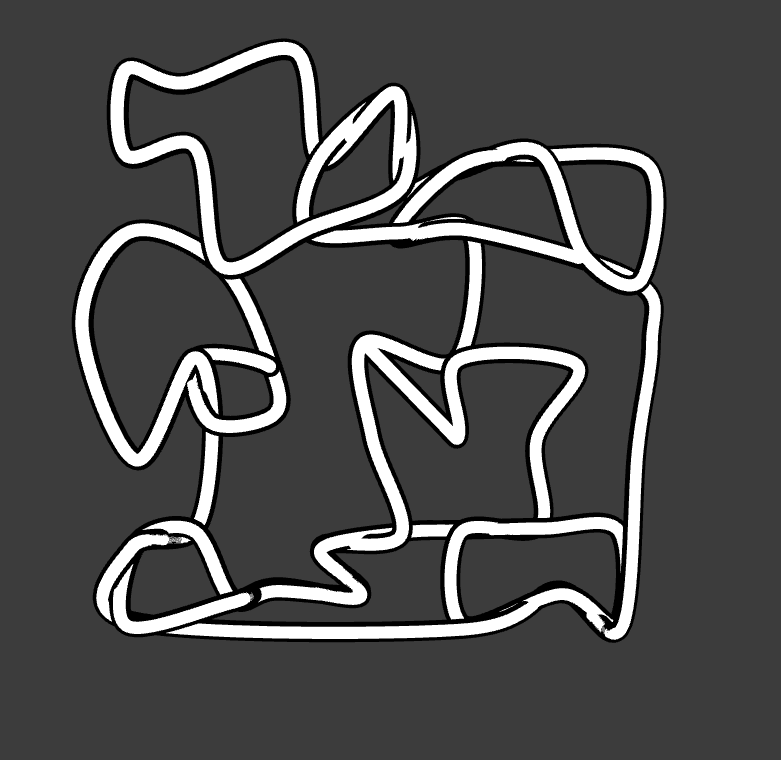
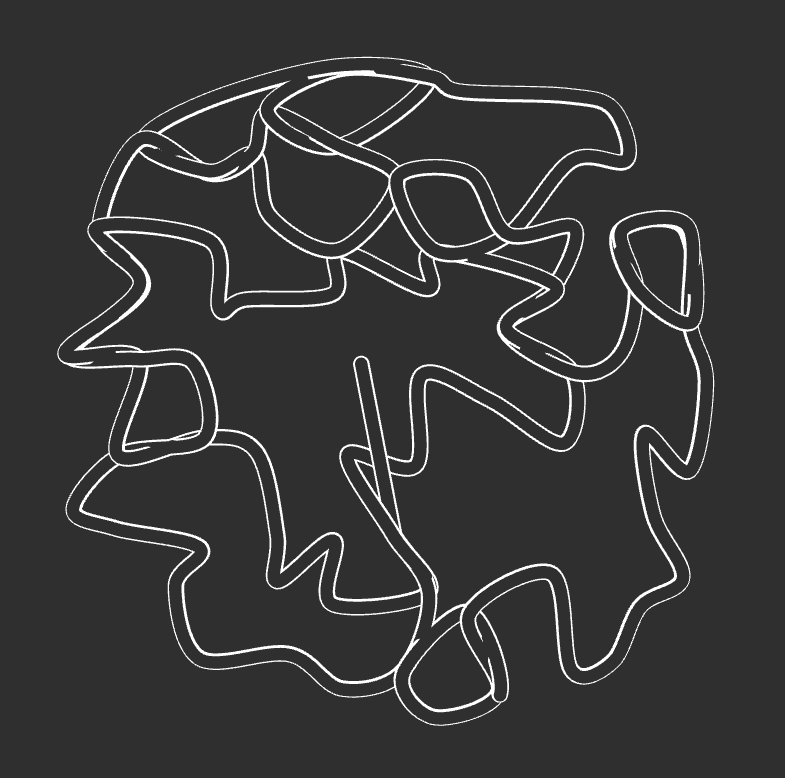
readme

Changed region(s): [[0.0615, 0.0303, 0.9219, 0.9382]]

diff --git a/albers/README.md b/albers/README.md
@@ -1,30 +1,13 @@
-# About emptyExample
+# Anni Albers
 
-![Screenshot of emptyExample](emptyExample.png)
+Original:
 
-### Learning Objectives
+<img src="pics/orig.jpg" width="600">
 
-This example is the simplest possible openFrameworks app! It does nothing. 
+Recreations:
 
-...Well, *almost* nothing. Although it may not be apparent, the emptyExample activates all of the default system states. (For example, it sets the default fill color to white; it just doesn't happen to draw anything with it.)
+<img src="pics/1.png" width="600">
 
-The emptyExample is great for making sure that your openFrameworks development environment is compiling properly. It can also be useful as a "starter template" for making simple programs. 
+<img src="pics/2.png" width="600">
 
-The emptyExample will help you understand what are the bare necessities of an openFrameworks program. In this regard, you can think of it as a "Hello World" for OF. 
-
-
-### Expected Behavior
-
-When launching this app, you should see a light-gray screen. 
-
-* There's no interaction. 
-* There's nothing to see. 
-* That's it. 
-
-Instructions for using the app:
-
-* There's nothing to do. Move along.
-
-### Other classes used in this file
-
-This example uses no other classes.
+<img src="pics/4.png" width="600">
